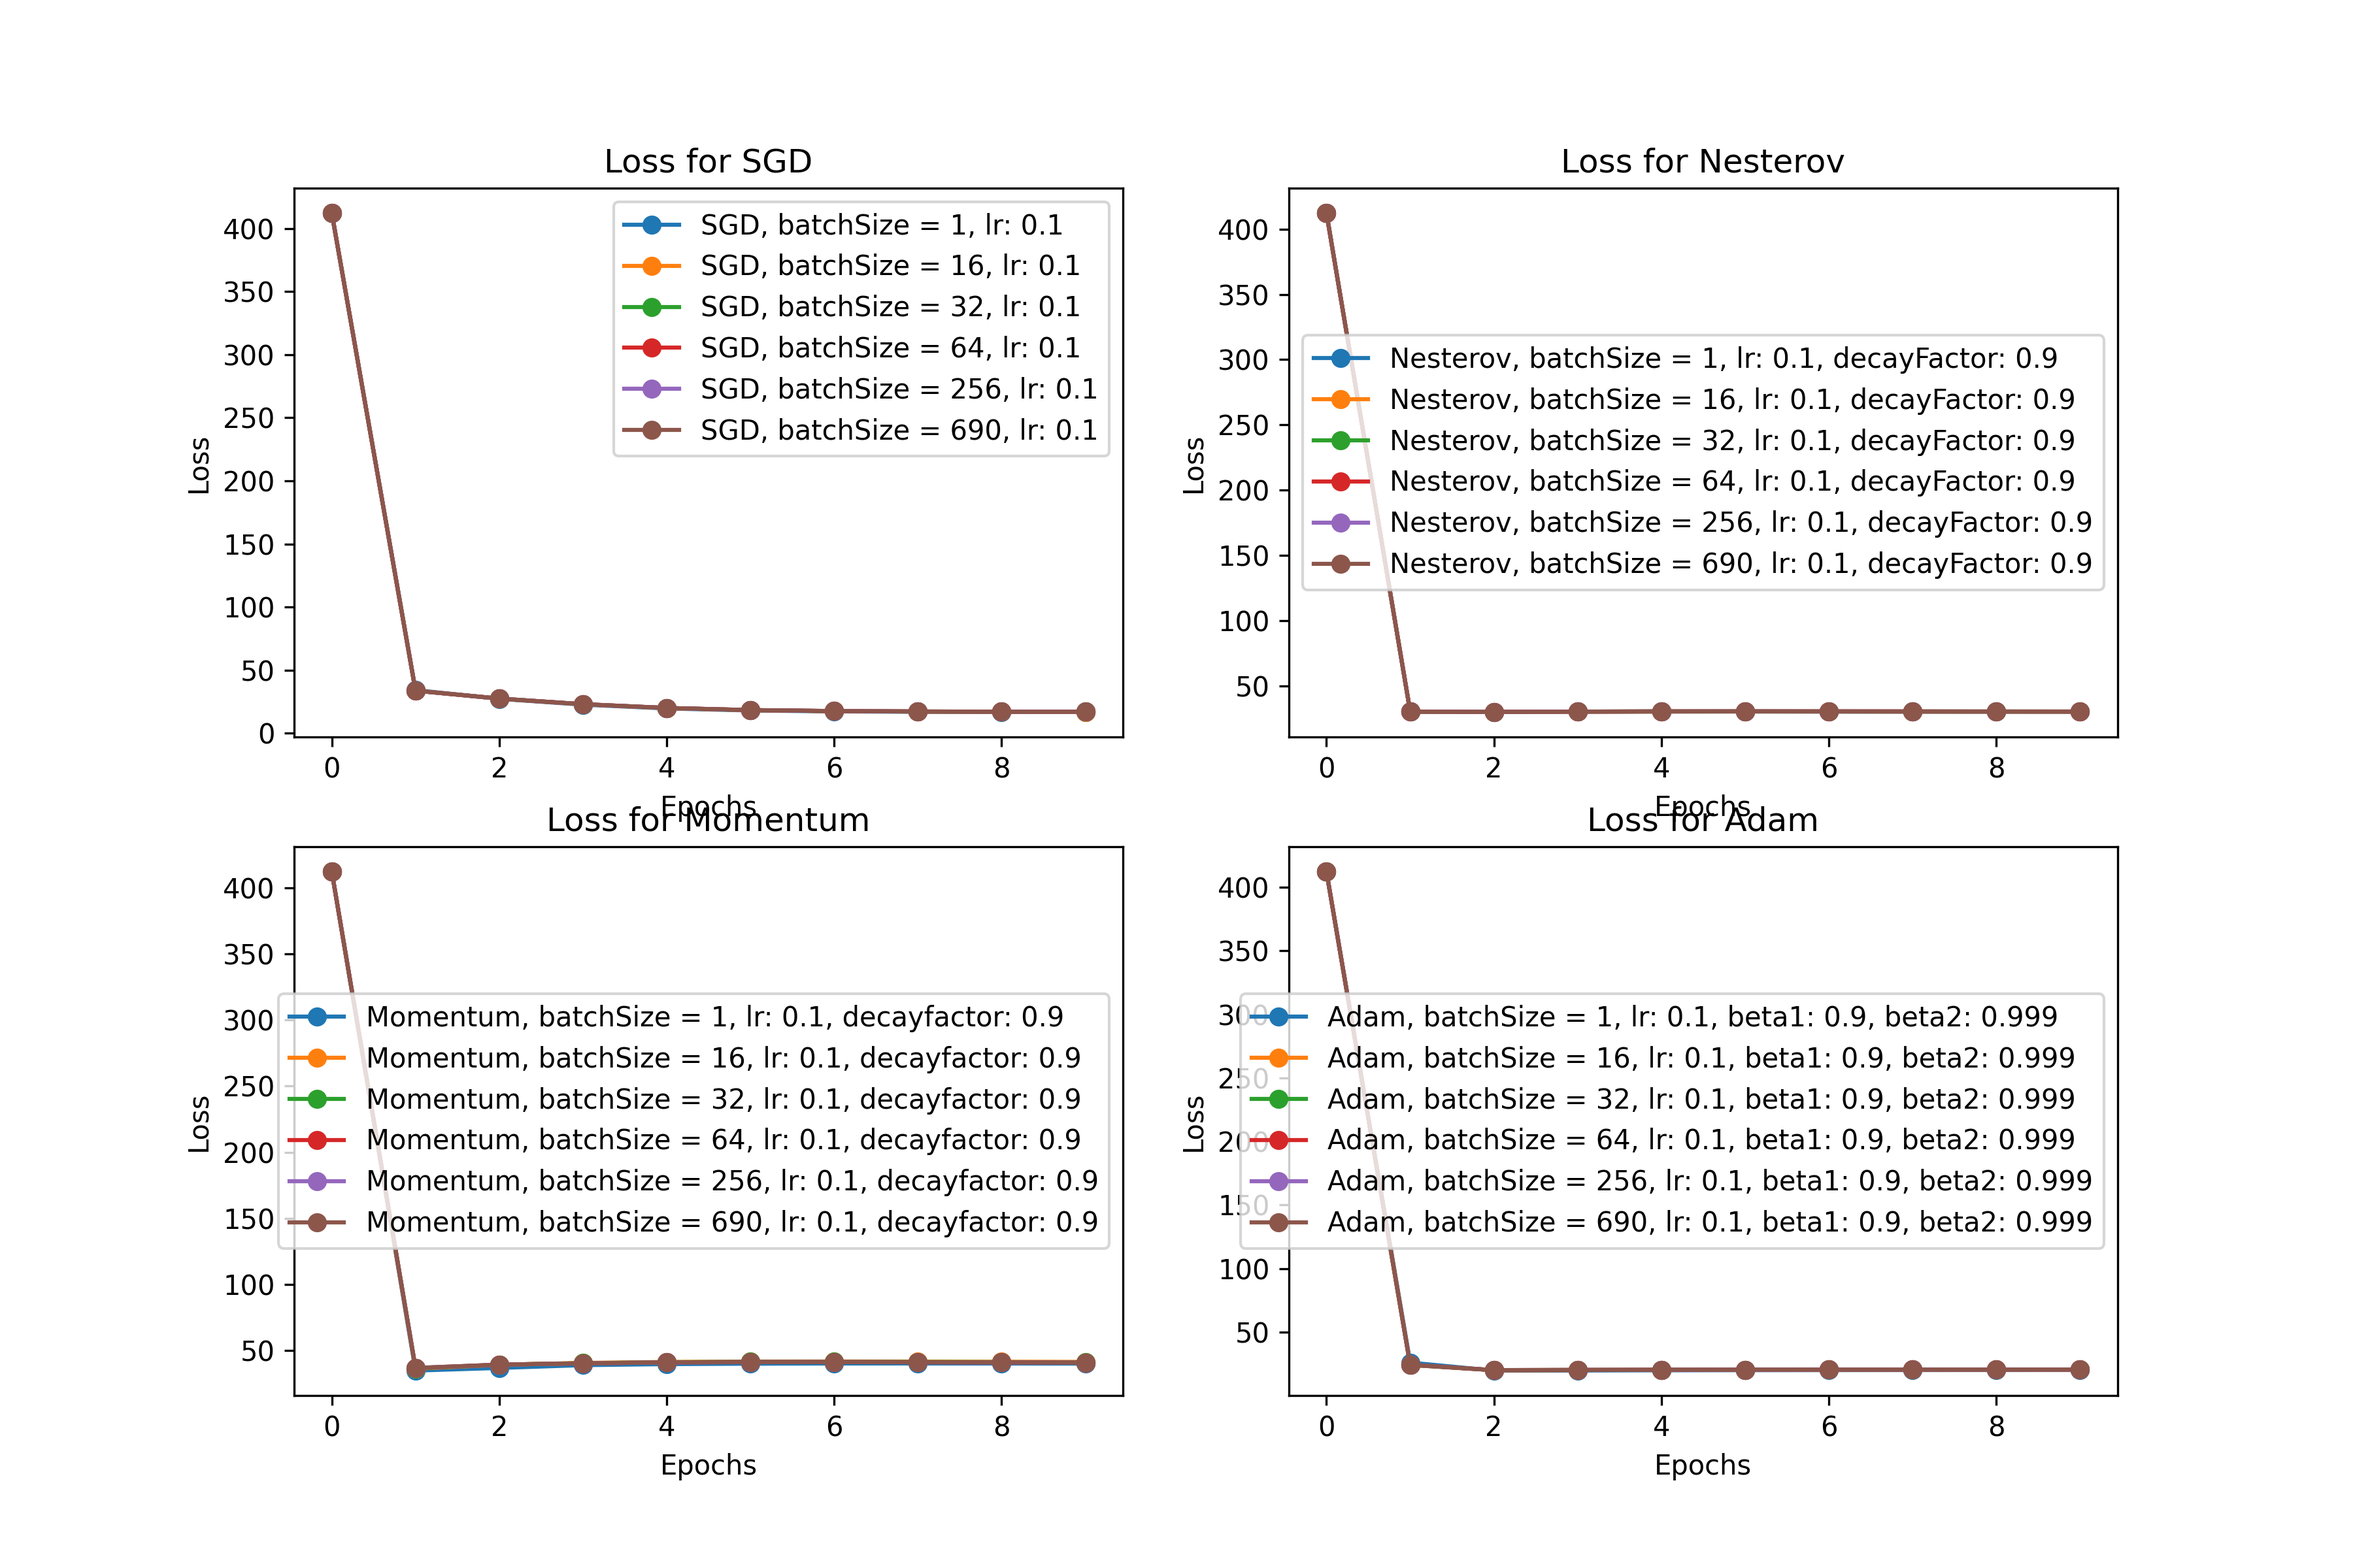
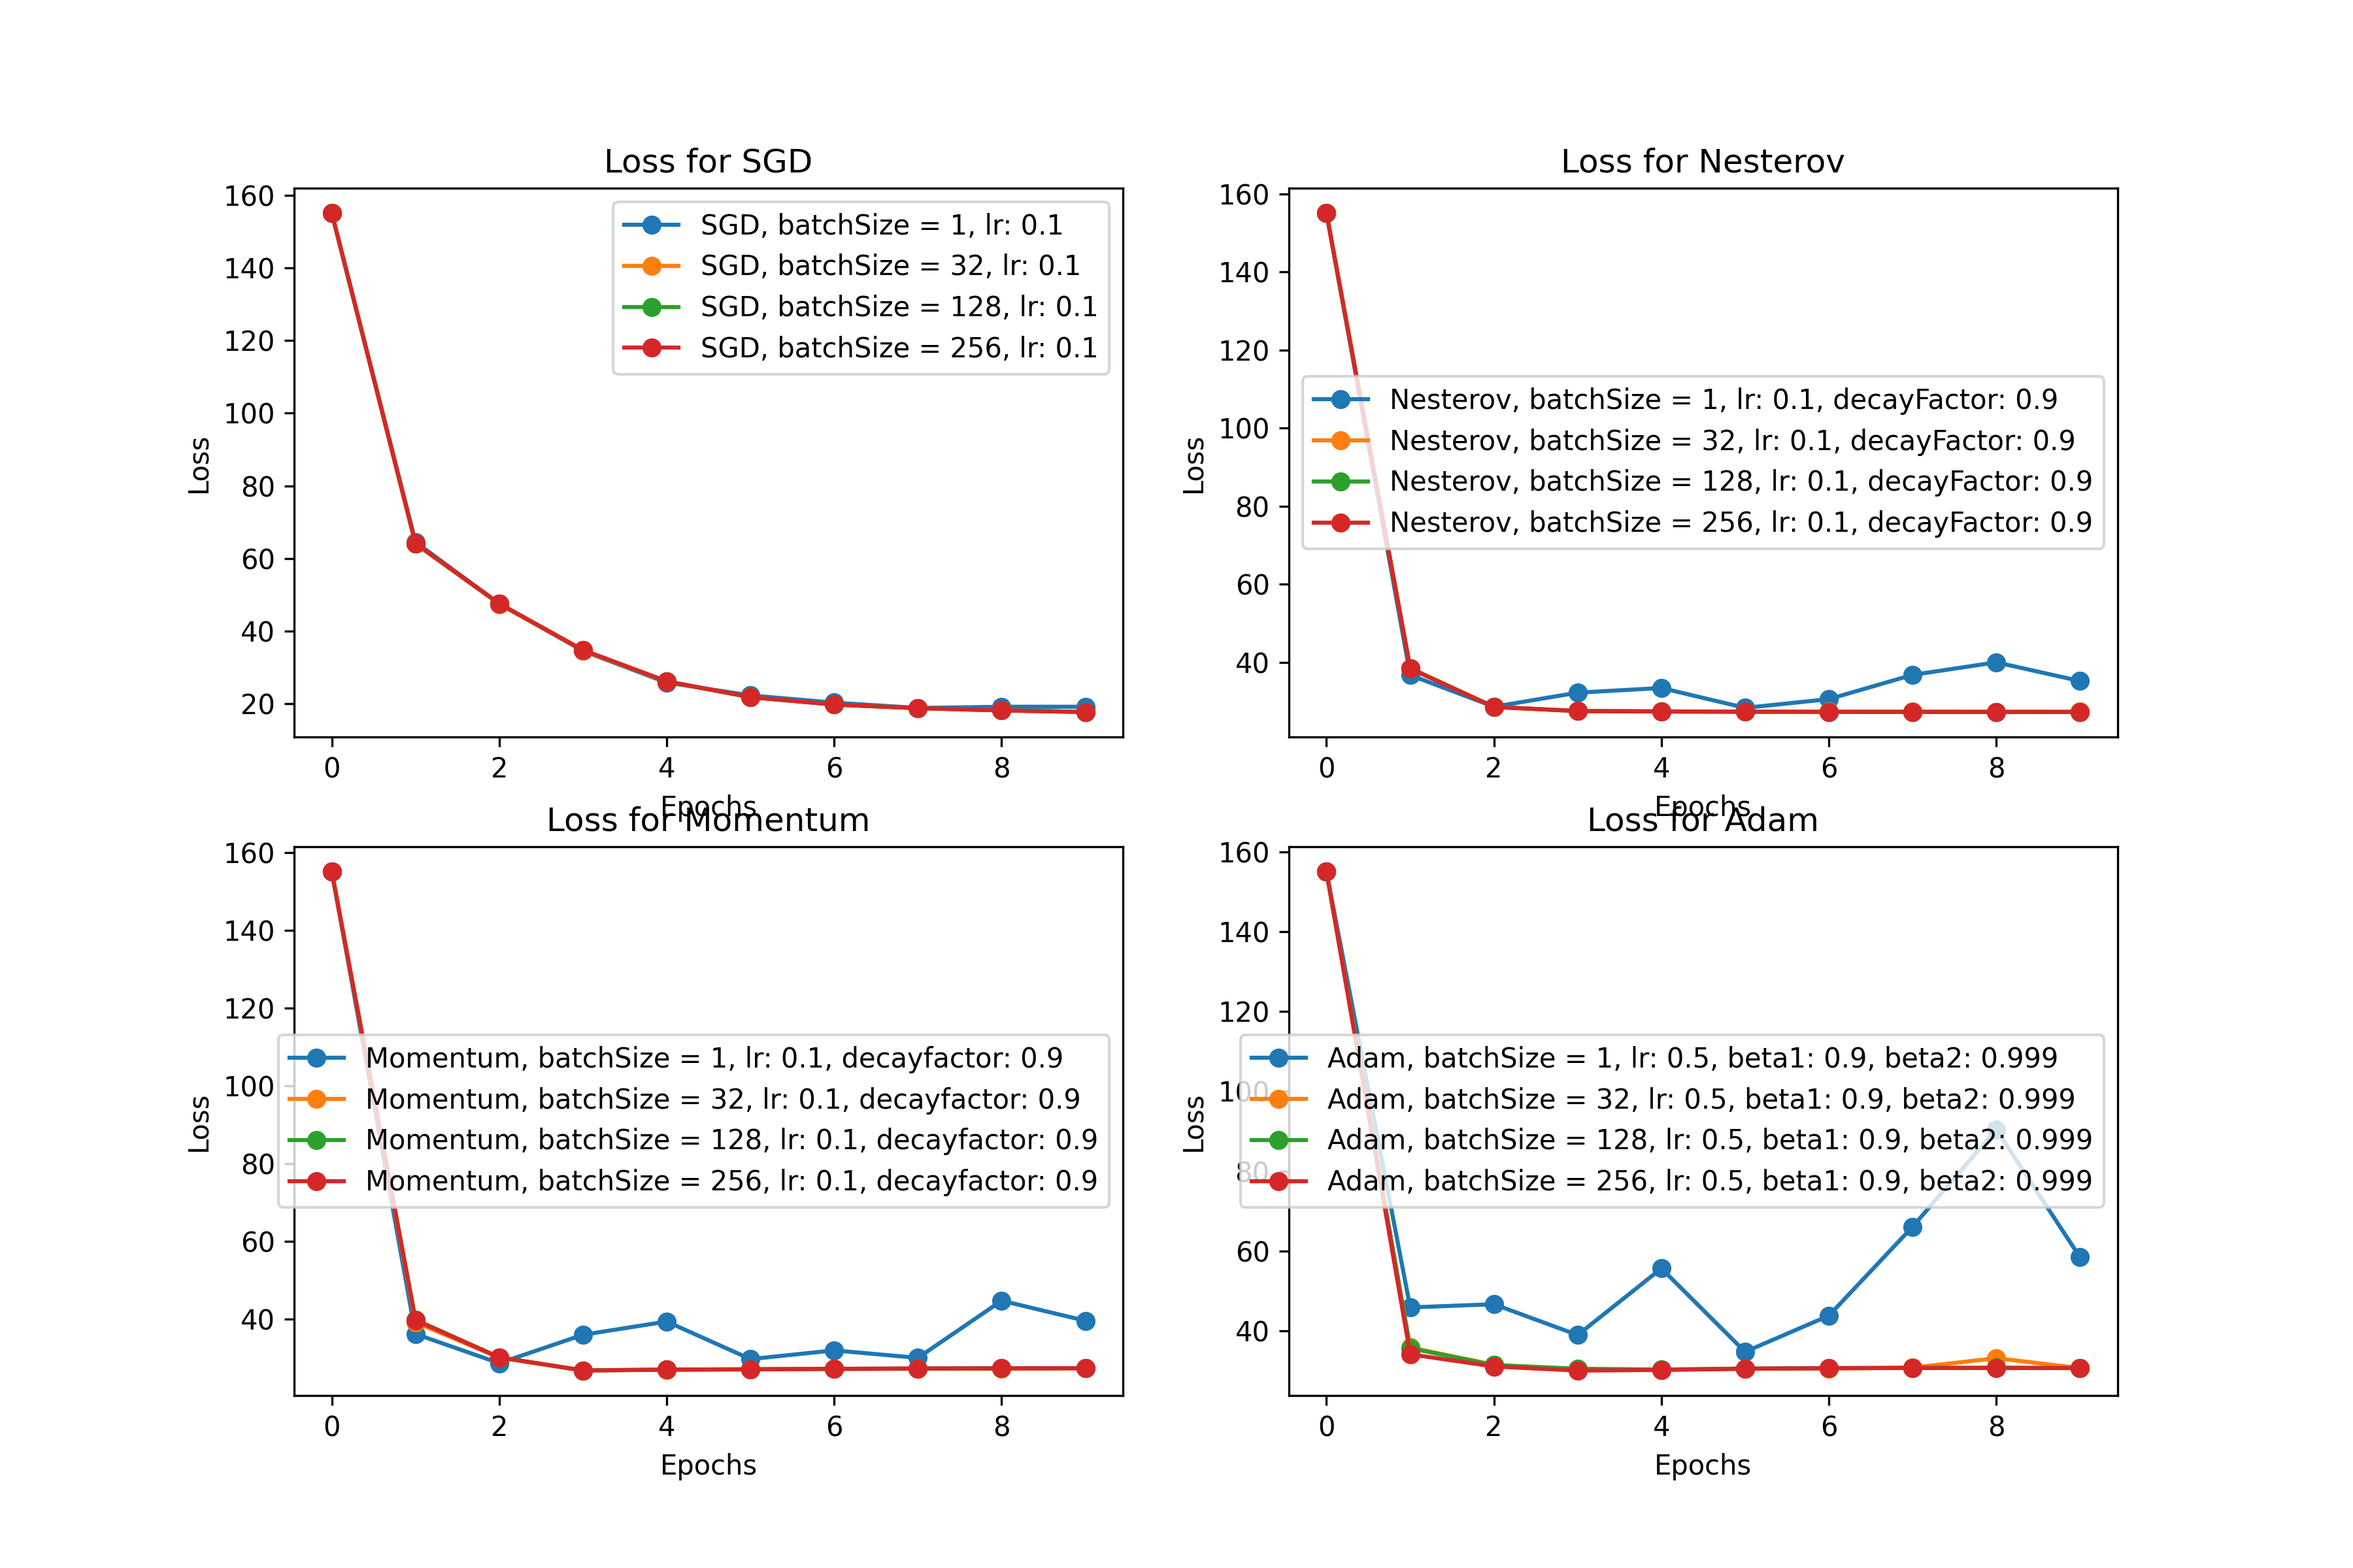
update batch size handling in robustness test

diff --git a/testRobustness_new.py b/testRobustness_new.py
@@ -18,76 +18,54 @@ def testRobustness(listOfOptimizerListBatchVariants, batchSizeTestValues: List[i
     """
     To test robustness w.r.t. batch sizes, we test the (tuned) optimizers for each batch size. 
     """
-    # Get the loss object
-    #lossObj = optimizerList[0].lossObj
-
-    # For every batch size test value, change the batch size and run all optimizers in parallel (using the same random batches)
     results = dict()
     for batchVariant in listOfOptimizerListBatchVariants:
-        # Reset all optimizer histories,  NOTE: For some reason, NOT resetting the history makes the histories reset correctly
-        # for optimizer in optimizerList:
-        #     optimizer.reset()
-
-
-        # Train all optimizers in parallel, using the new batch size
-        #lossObj.batchSize = batchSize
         train(batchVariant)
-
-        # Save results as a copy of each optimizer
-        #optimizerListCopy = [deepcopy(optimizer) for optimizer in optimizerList]
         results[batchVariant[0].lossObj.batchSize] = batchVariant
-
     return results
 
 
 def setupOptimizerList(lossObjList, initPos):
-
-
-    optBatchSizeList = []
     optAdamList = []
-    optNesterov = []
+    optSGDList = []
+    listOfAllOpt = []
+
+    groupedByOptimizer = [] # for presenting
+    groupedByBatches = [] # for training
     for lossobj in lossObjList:
+        privateSGD = sgd.SGD(lossobj, initPos, lr=0.1)
         privateAdam = adam.Adam(lossObject=lossobj, initPos=initPos, learningRate=0.5, forgettingFactorM=0.9, forgettingFactorR=0.999)
-        optAdamList.append(privateAdam) #(adam.Adam(lossObject=lossobj, initPos=1, learningRate=10, forgettingFactorM=0.9, forgettingFactorR=0.999))
+        
+        optSGDList.append(privateSGD)
+        optAdamList.append(privateAdam)
+        
+        # All optimizers of same batch size
+        groupedByBatches.append([privateSGD, privateAdam])
 
-        optBatchSizeList.append([privateAdam])
-
-    listofListsofOpt = []
-    listofListsofOpt.append(optAdamList)
-    listofAllOpt = []
-    listofAllOpt.extend(optAdamList)
-    return [listofListsofOpt, listofAllOpt]
+    # All optimizers of same size
+    groupedByOptimizer.append([optSGDList, optAdamList])
+    listOfAllOpt.extend(optSGDList)
+    listOfAllOpt.extend(optAdamList)
+    return groupedByOptimizer, groupedByBatches, listOfAllOpt
 
 def main():
-    np.random.seed(10)
-    lossObjData, initPos = setupProblem("LogReg", datasetFilepath="datasets/australian_scaled")  # australian_scaled, australian, rcv1_train.binary
-    #lossObj, initPos = setupProblem("LogReg", datasetFilepath="datasets/rcv1_train.binary")
-
+    # Setup lossObj
     X, y = loadDataAsNumpyArray("datasets/rcv1_train.binary")  # rcv1_train.binary or australian_scale
-    # lossObj = LogisticRegression(data=[X, y])  # QuadraticForm(), Rosenbrock()
-
-
     batchSizeTestValues = [1, 32, 128, 256]
     lossObjList = []
     for batchSize in batchSizeTestValues:
         lossObjList.append(LogisticRegression(data=[X, y], batchSize=batchSize))
-    np.random.seed(10)
-    initPos = np.random.uniform(-10, 10, lossObjList[0].xDataLength)
-
 
     # Setup base case optimizers
-    organizedListVariantsOfOpt = setupOptimizerList(lossObjList=lossObjList, initPos=initPos)
-    # optSGD = sgd.SGD(lossObj, initPos, lr=0.1)
-    # optNesterov = nesterov.Nesterov(lossObj, initPos, lr=0.1, decayFactor=0.9)
-    # optMomentum = momentum.Momentum(lossObj, initPos, learningRate=0.1, decayFactor=0.9)
-    # optAdam = adam.Adam(lossObj, initPos, learningRate=0.1, forgettingFactorM=0.9, forgettingFactorR=0.999)
+    np.random.seed(10)
+    initPos = np.random.uniform(-10, 10, lossObjList[0].xDataLength)
+    groupedByOptimizer, groupedByBatches, _ = setupOptimizerList(lossObjList=lossObjList, initPos=initPos)
 
     # Run the test
-    #batchSizeTestValues = [1, 32, 128, 256]
-    #optimizerList = [optSGD, optNesterov, optMomentum, optAdam]
-    results = testRobustness(organizedListVariantsOfOpt[0], batchSizeTestValues)
+    results = testRobustness(groupedByBatches, batchSizeTestValues)
 
     # Present
+    # TODO: Change to plot by optimizer variant
     i = 0
     plt.figure()
     for batchSize, optimizerListCopies in results.items():
@@ -95,7 +73,7 @@ def main():
         plt.subplot(len(batchSizeTestValues)//2+1, 2, i+1)
         plt.subplots_adjust(left=None, bottom=None, right=None, top=None, wspace=None, hspace=0.9)
         for optimizer in optimizerListCopies:
-            plotHistoryGraph(optimizer.lossHistory, title = f"Loss for {optimizer.__class__.__name__}, batchSize = {batchSize}", label=f"{optimizer.__class__.__name__}, {optimizer.getHyperparamStr()}", ylabel="Loss")
+            plotHistoryGraph(optimizer.lossHistory, title = f"Loss history, batchSize = {batchSize}", label=f"{optimizer.__class__.__name__}, {optimizer.getHyperparamStr()}", ylabel="Loss")
         i += 1
     plt.show()
 

diff --git a/testRobustness.py b/testRobustness.py
@@ -25,12 +25,12 @@ def testRobustness(optimizerList: List[Optimizer], batchSizeTestValues: List[int
     results = dict()
     for batchSize in batchSizeTestValues:
         print(f"Testing batchSize = {batchSize}")
-        # Reset all optimizer histories,  NOTE: For some reason, NOT resetting the history makes the histories reset correctly
+        # Reset all optimizer histories
         for optimizer in optimizerList:
             optimizer.reset()
 
         # Train all optimizers in parallel, using the new batch size
-        lossObj.batchSize = batchSize
+        lossObj.setBatchSize(batchSize)
         train(optimizerList, nrEpochs=nrEpochs)
 
         # Save results as a copy of each optimizer
@@ -42,18 +42,20 @@ def testRobustness(optimizerList: List[Optimizer], batchSizeTestValues: List[int
                 results[optName].append(deepcopy(optimizer))         
     return results
 
+
+
 def main():
-    #np.random.seed(10)
-    lossObj, initPos = setupProblem("LogReg", datasetFilepath="datasets/australian_scaled")  # australian_scaled, australian, rcv1_train.binary
+    lossObj, initPos = setupProblem("LogReg", datasetFilepath="datasets/australian_scaled", randomSeed=10)  # australian_scaled, australian, rcv1_train.binary
+    print(initPos)
 
     # Setup base case optimizers
     optSGD = sgd.SGD(lossObj, initPos, lr=0.1)
     optNesterov = nesterov.Nesterov(lossObj, initPos, lr=0.1, decayFactor=0.9)
     optMomentum = momentum.Momentum(lossObj, initPos, learningRate=0.1, decayFactor=0.9)
-    optAdam = adam.Adam(lossObj, initPos, learningRate=0.1, forgettingFactorM=0.9, forgettingFactorR=0.999)
+    optAdam = adam.Adam(lossObj, initPos, learningRate=0.5, forgettingFactorM=0.9, forgettingFactorR=0.999)
 
     # Run the test
-    batchSizeTestValues = [1, 16, 32, 64, 256, lossObj.xDataListLength] # lossObj.xDataListLength for full batch
+    batchSizeTestValues = [1, 32, 128, 256] # lossObj.xDataListLength for full batch
     optimizerList = [optSGD, optNesterov, optMomentum, optAdam]
     results = testRobustness(optimizerList, batchSizeTestValues, nrEpochs=10)
 

diff --git a/testSensitivity_NEW.py b/testSensitivity_NEW.py
@@ -95,7 +95,7 @@ def main():
                 plotHistoryGraph(optVariation.lossHistory, title = f"Loss for {optVariation.__class__.__name__}, variation in '{hyperparamName}'", label=f"{optVariation.__class__.__name__}, {optVariation.getHyperparamStr()}", ylabel="Loss")
             i += 1
         plt.savefig("images/"+opt.__class__.__name__+"_sensitivity_test.png", dpi=300, bbox_inches = 'tight')
-        plt.show()
+    plt.show()
 
-if __name__ == "__main__":    
+if __name__ == "__main__": 
     main()

diff --git a/LogisticRegression.py b/LogisticRegression.py
@@ -11,8 +11,7 @@ class LogisticRegression(LossObj):
         # return np.mean(np.logaddexp(0, -z))
         
         # Might be more stable if another log programming function is used.
-        X = self.X
-        return (1/self.xDataLength) * np.sum(np.log(1 + np.exp(-self.y * (X @ weights))))
+        return (1/self.xDataLength) * np.sum(np.log(1 + np.exp(-self.y * (self.X @ weights))))
 
     def evaluate_gradient(self, weights):
         X, y = self.getCurrentBatch()
